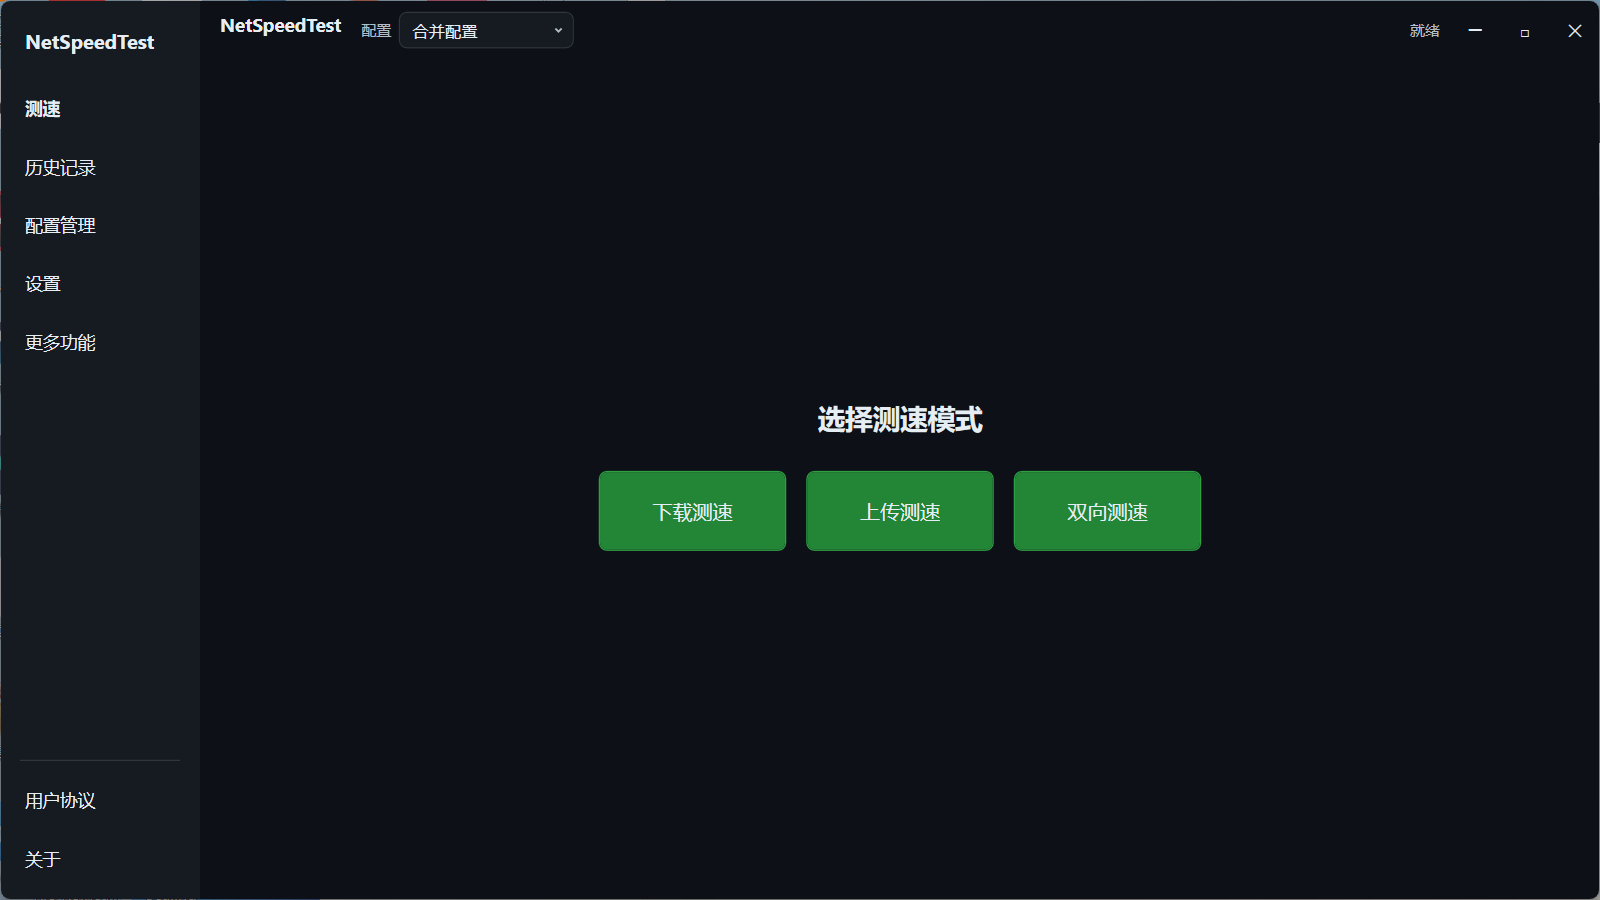
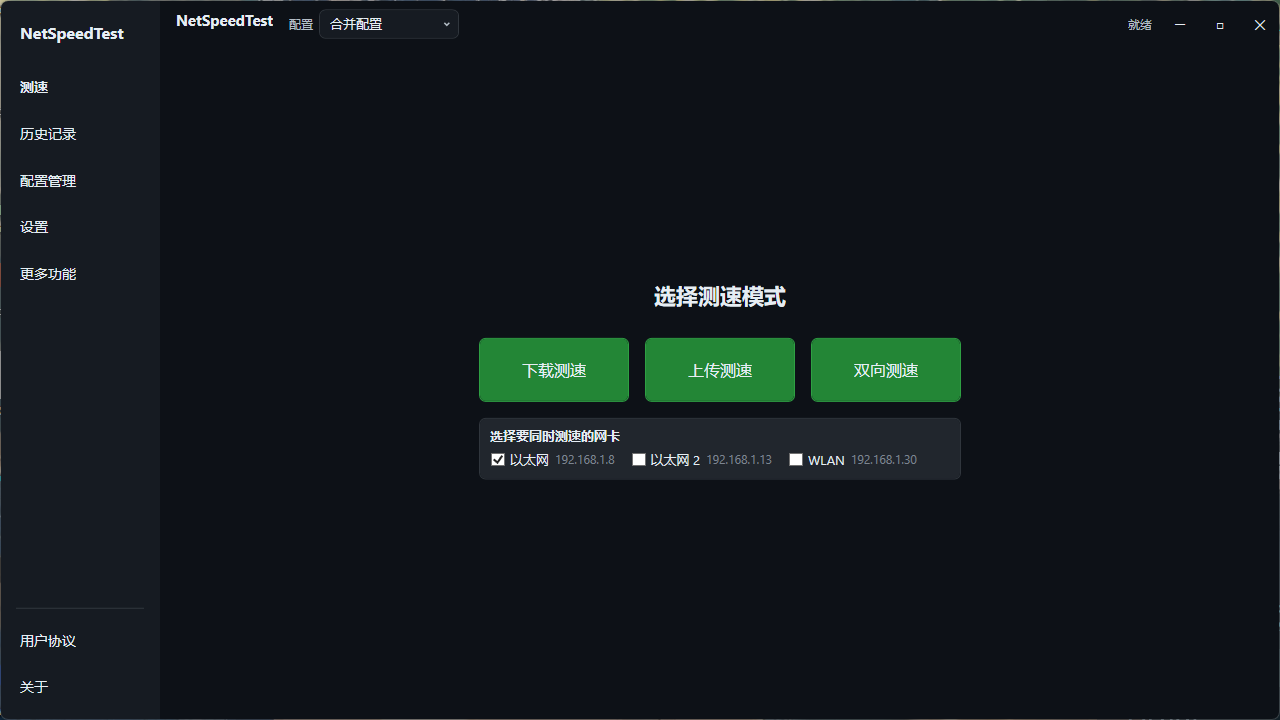
docs: V1.4.0 更新 README 截图 + 补充多网卡并行测速亮点

diff --git a/README.md b/README.md
@@ -22,6 +22,7 @@
 <p align="center">
   <b>CDN 智能调度</b> &nbsp;·&nbsp;
   <b>自适应线程引擎</b> &nbsp;·&nbsp;
+  <b>多网卡并行测速</b> &nbsp;·&nbsp;
   <b>掉速紧急补偿</b> &nbsp;·&nbsp;
   <b>UDP 五层延迟探测</b> &nbsp;·&nbsp;
   <b>18 合 1 工具箱</b> &nbsp;·&nbsp;
@@ -62,6 +63,13 @@
 - **10s 稳定后取均值**，排除爬坡干扰
 - **3s 滑动窗口平滑**，实时速率去毛刺
 - **渐变启动**（200ms 可配），避免瞬时占满带宽
+
+### 🌐 多网卡并行测速 (New in v1.4.0)
+- **多网卡同时测速** — 勾选多张网卡并行测速，每张网卡独立绑定源 IP
+- **曲线按网卡切换** — 下载/上传图表支持“合计 / 单网卡”曲线切换
+- **总速度显示** — 双向测速时显示下载 + 上传总速度
+- **完成弹窗每网卡结果** — 每张网卡独立速率/错误信息一目了然
+- **默认优先默认网关网卡** — 自动选中有默认网关的网卡
 
 ### 📊 NIC 级精准计量
 - 基于 `IPv4Statistics` 差分计算，不受 HTTP 开销干扰
